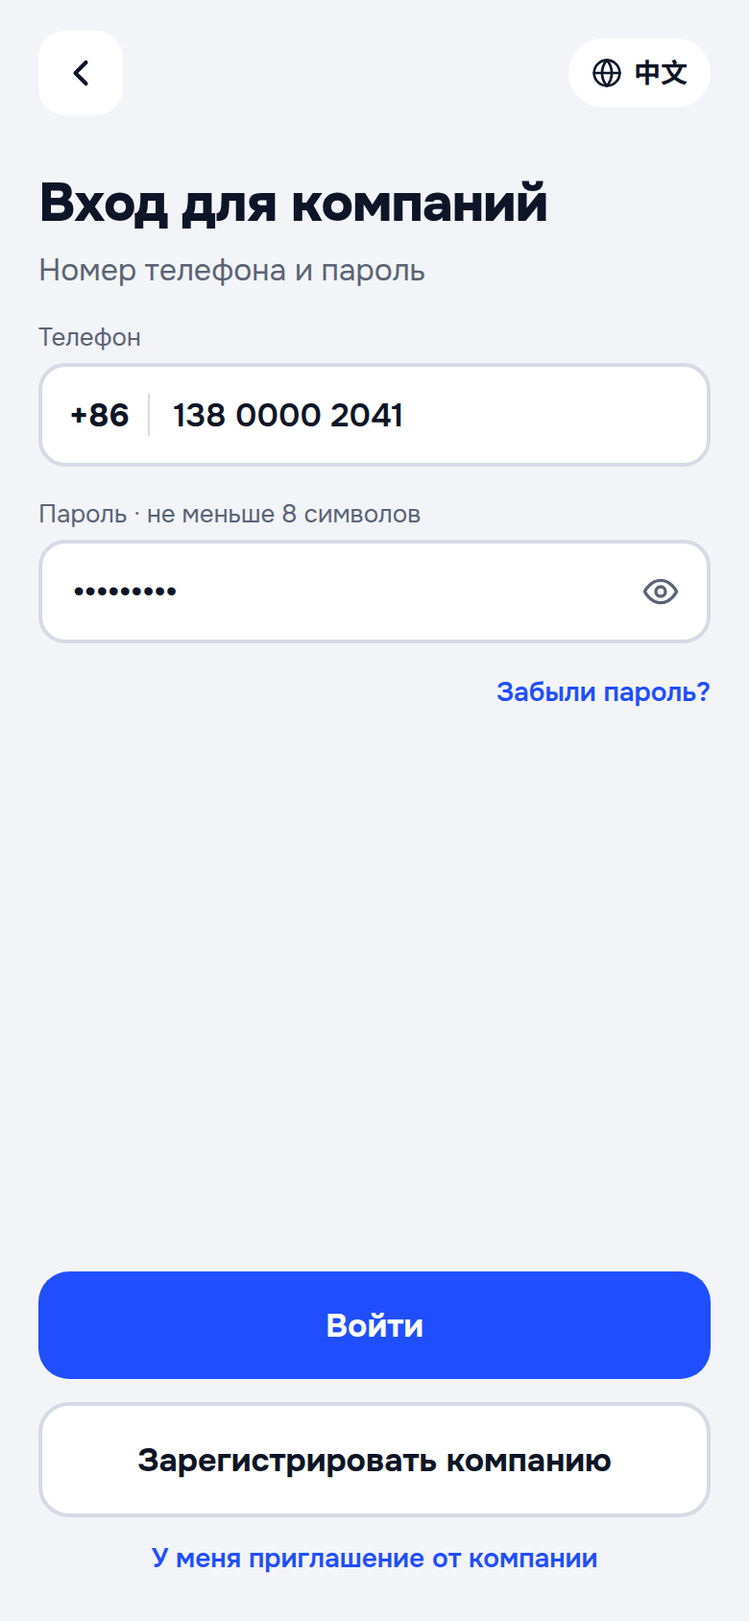
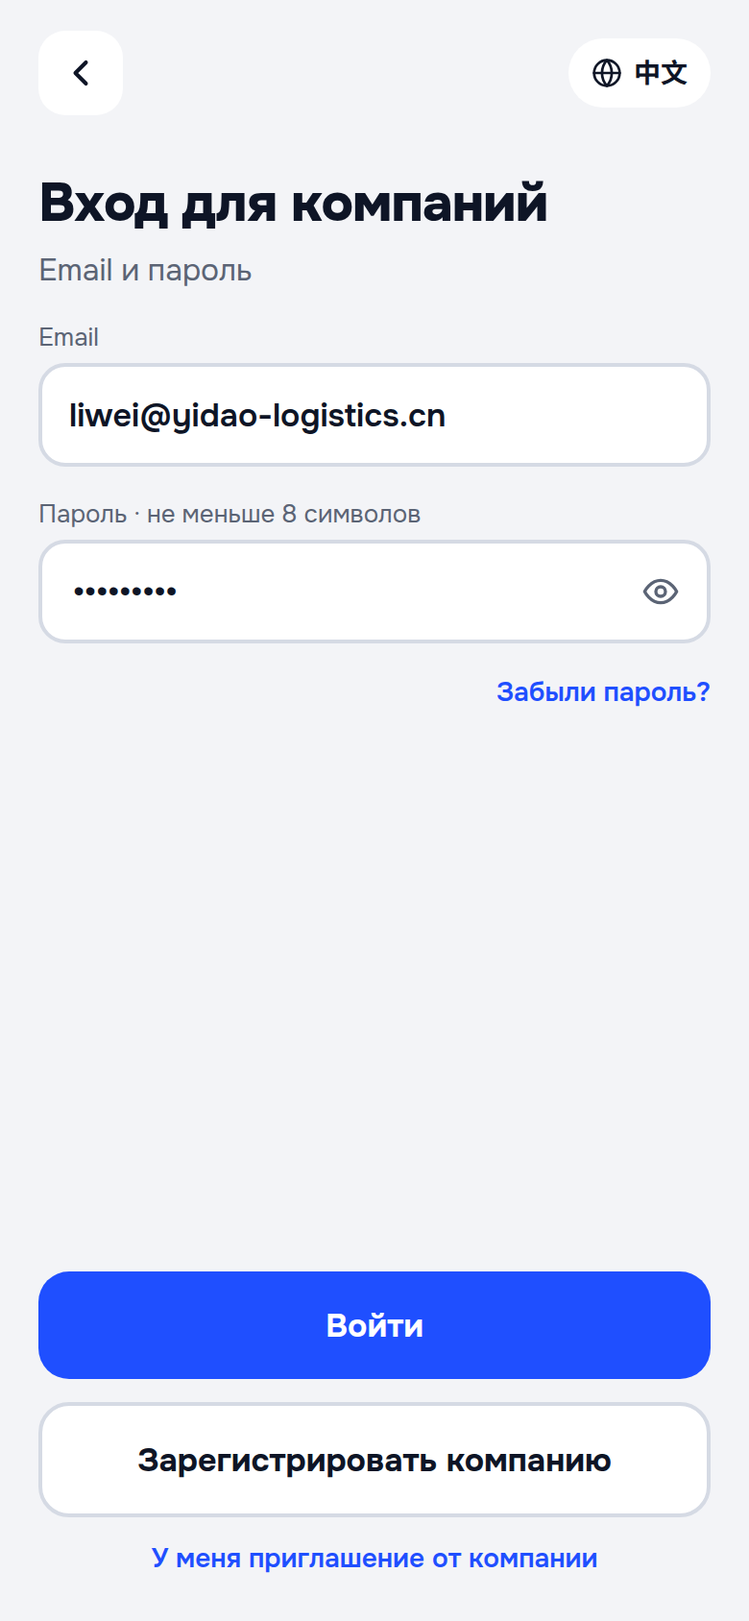
Logist auth: email + password (correction); update task 025, screens 12-13
Claude-Session: https://claude.ai/code/session_01Ff8oopsZvobH79mMVJKnFv

Changed region(s): [[0.0923, 0.2464, 0.5846, 0.2773], [0.2154, 0.154, 0.5538, 0.1848], [0.0615, 0.154, 0.1846, 0.2156]]

diff --git a/docs/tasks/025-logist-email-password.md b/docs/tasks/025-logist-email-password.md
@@ -1,0 +1,41 @@
+# 025 — Вход и регистрация логиста по email и паролю
+
+Статус: не начато · **решение владельца продукта 2026-10-04** (заменяет вход по коду на email из 006/022)
+
+Эталоны: `design/screens/13-auth-logist-login.png` (вход), `12-register-logist.png` (регистрация компании). Решение — `docs/decisions.md` (2026-10-04, «Логист: вход по email и паролю»).
+
+## Что сделать
+
+### Вход (экран 13)
+1. Email + пароль → «Войти». Кнопки: «Зарегистрировать компанию», «У меня приглашение от компании», «Забыли пароль?».
+2. `POST /auth/company/login {email, password}` → пара токенов (сессии из 006, срок 30 дней). Пароль — bcrypt. Email — нормализовать (trim, lower-case).
+3. Защита: 5 неверных паролей на email → блокировка входа на 15 минут; лимит 20 попыток в час с одного IP; одинаковый текст ошибки «Неверный email или пароль» (не раскрывать, существует ли email).
+
+### Регистрация компании (экран 12) — один экран
+4. Поля: email, пароль (≥ 8 символов, показать/скрыть), имя, название компании (+ русское, подставляется, можно поправить), страна (Китай / Казахстан / Другая). Город не спрашиваем.
+5. `POST /auth/company/register` → в одной транзакции `User{role: COMPANY, email, passwordHash, name}` + `Company` + `CompanyMember{OWNER}` (переиспользовать `registerOwnedCompany` из 022) → токены → кабинет с баннером «Публикация грузов откроется после проверки».
+6. Email уже зарегистрирован → «Этот email уже зарегистрирован. Войти?» (переход на вход с подставленным email).
+7. **Подтверждение email — не блокирует вход:** после регистрации отправляется письмо с кодом/ссылкой (`EmailService` из 006); в кабинете — плашка «Подтвердите email». Подтверждённый email — одно из условий проверки компании (вместе с документами, задача 012). Поле `User.emailVerifiedAt`.
+   Почему не блокировать: письма на qq.com/163.com доходят ненадёжно — логист не должен застрять на входе из-за письма.
+8. Телефон логиста для водителей — не при регистрации, а перед первой публикацией груза (решение 012).
+
+### Восстановление пароля
+9. «Забыли пароль?» → email → код на почту (`EmailService`, лимиты как в 006) → новый пароль → все остальные сессии завершаются.
+10. Письмо не пришло → экран «Не пришло письмо? Напишите в поддержку» (контакты из `app_settings`: WhatsApp / WeChat / email); в админке — кнопка «Сбросить пароль» (временный пароль, обязательная смена при входе).
+
+### Приглашение сотрудника (Путь Б из 022)
+11. Владелец → «Сотрудники» → «Пригласить» → email и роль → **ссылка-приглашение**: письмо на email + кнопки «Скопировать ссылку» / «Поделиться» (чтобы переслать в WeChat/WhatsApp, если письмо не дойдёт).
+12. По ссылке: email подставлен → пароль, имя, телефон для водителей, WeChat → готово, сразу в кабинете компании. Ссылка действует 7 дней, одноразовая. Переход по ссылке подтверждает email.
+
+### Что убрать / оставить
+13. Вход по одноразовому коду на email (`company_login_screen` / `company_otp_screen`, `/auth/email/request` + `/auth/email/verify` как способ входа) — убрать. `EmailService` остаётся для подтверждения email, восстановления пароля и приглашений.
+14. Демо-аккаунты компаний (`seed-demo.ts`, `DEMO_CREDENTIALS.md`) — email + пароль.
+15. Почтовый провайдер для prod (доставка в qq.com / 163.com — Alibaba DirectMail или аналог, SPF/DKIM/DMARC) — по задаче 022, п. 13–15.
+16. Все строки — ARB (kk/ru/zh/en).
+
+## Готово, когда
+- Логист входит по email и паролю; 6-й неверный пароль → блокировка 15 минут.
+- Новая компания регистрируется на одном экране и сразу попадает в кабинет; письмо подтверждения отправлено, но вход не блокирует.
+- «Забыли пароль» по коду на email работает; без письма — экран поддержки и сброс админом.
+- Сотрудник регистрируется по ссылке-приглашению и попадает в нужную компанию.
+- Тесты: вход, блокировка, регистрация, дубль email, подтверждение email, сброс пароля, приглашение.

diff --git a/docs/decisions.md b/docs/decisions.md
@@ -13,13 +13,12 @@
 **Не привязывать продукт к Хоргосу в текстах.**
 Скоро могут добавиться другие погранпереходы и точки. В интерфейсе, письмах и push не писать «Хоргос» текстом: название точки/города подставляется из справочника («Кто будет на {точка}», «Буду на {точка}»), общие тексты — без географии («Водители и грузы находят друг друга за минуты»). Хоргос остаётся только как данные в справочнике.
 
-**Логист: вход по телефону и паролю (решение владельца, заменяет вход по коду на email).** (задача 025, эталоны 12–13)
-- Вход: телефон (любой код страны, по умолчанию +86) + пароль. Регистрация компании — один экран: телефон, пароль, имя, название, страна.
-- Подтверждение номера: +7 — SMS-код; другие страны — без SMS (рассылка на +86 сложна и дорога), номер подтверждает админ при проверке компании.
-- Восстановление пароля: +7 — SMS; иначе — код на email, если указан в профиле; иначе — поддержка, сброс пароля админом.
-- Приглашение сотрудника — ссылкой, которую владелец сам пересылает в WeChat/WhatsApp (без email-рассылки).
-- Защита: блокировка на 15 минут после 5 неверных паролей, лимит по IP, одинаковая ошибка для неверного номера и пароля.
-Почему: логистам привычнее телефон и пароль, email у китайских логистов используют реже, а письма на qq.com/163.com доходят ненадёжно.
+**Логист: вход по email и паролю (решение владельца, заменяет вход по одноразовому коду на email).** (задача 025, эталоны 12–13)
+- Вход: email + пароль. Регистрация компании — один экран: email, пароль, имя, название, страна.
+- Подтверждение email отправляется, но вход не блокирует (письма в qq.com/163.com доходят ненадёжно); подтверждённый email — условие проверки компании.
+- Восстановление пароля — код на email; если письмо не пришло — поддержка, сброс админом.
+- Приглашение сотрудника — письмо + ссылка, которую владелец может сам переслать в WeChat/WhatsApp.
+- Защита: блокировка на 15 минут после 5 неверных паролей, лимит по IP, одинаковая ошибка для неверного email и пароля.
 Пункт «Логист — без пароля» в решении «Вход и регистрация — компактно» ниже — отменён.
 
 **Фильтр по умолчанию — Хоргос, но из настройки, а не из кода.**
@@ -33,7 +32,7 @@
 **Вход и регистрация — компактно, одна точка входа.** (задачи 021, 022; эталоны 09–12)
 - Нет отдельных «Вход» и «Регистрация»: человек выбирает роль, вводит телефон/email, получает код. Известный — сразу внутри, новый — продолжает регистрацию.
 - Водитель: телефон и код на одном экране (код подставляется сам, вход после 4-й цифры) → 3 шага: имя + город → машина → страны.
-- ~~**Логист — без пароля:** вход по 6-значному коду на email~~ — **отменено 2026-10-04**, см. «Логист: вход по телефону и паролю». Новый логист после кода — один экран «Новая компания»: имя, название (русское подставляется), страна кнопками. Пароль только у админа.
+- ~~**Логист — без пароля:** вход по 6-значному коду на email~~ — **отменено 2026-10-04**, см. «Логист: вход по email и паролю». Новый логист после кода — один экран «Новая компания»: имя, название (русское подставляется), страна кнопками. Пароль только у админа.
 - Язык — плашка в углу каждого экрана входа; ссылки на условия и политику — на первом экране.
 Почему: меньше экранов и полей — больше людей доходят до конца; без пароля нечего забывать и восстанавливать.
 

diff --git a/docs/tasks/README.md b/docs/tasks/README.md
@@ -31,7 +31,7 @@
 | 017 | Чат до сделки, закрытие груза с исходом, «Договорились?» | не начато |
 | 018 | Фоновые задачи и курс валют НБ РК | не начато · нужен до 014, 015, 017 |
 | 019 | Публикация груза (терминал, допуски, повтор) и жалобы / блокировка | не начато · после 012 и 016 |
-| **025** | **Логист: вход и регистрация по телефону и паролю** | 🔴 решение владельца — сразу |
+| **025** | **Логист: вход и регистрация по email и паролю** | 🔴 решение владельца — сразу |
 | **024** | **Доработки авторизации после ревью 006** | 🔴 не начато — **1–2 часа** |
 | **021** | **Ввод имени и города на любом языке** | ✅ готово |
 | **022** | **Регистрация логиста и компании** | ⚠ частично: Путь А (создать компанию) готов; Путь Б, админ-создание и прод-почта ждут 012 |
@@ -39,7 +39,7 @@
 | **020** | **Скорость и работа из Китая** | 🔴 не начато — часть А (Flutter Web без Google) сразу после 006 |
 
 **Порядок:**
-0. ~~021~~ ✅, ~~022 (Путь А)~~ ✅ → **сейчас: 025 — вход/регистрация логиста по телефону и паролю + приглашение по ссылке**, затем **024 — доработки авторизации** (1–2 часа), затем **015 — анонс прибытия заранее** (ядро продукта, поднято в очереди)
+0. ~~021~~ ✅, ~~022 (Путь А)~~ ✅ → **сейчас: 025 — вход/регистрация логиста по email и паролю + приглашение**, затем **024 — доработки авторизации** (1–2 часа), затем **015 — анонс прибытия заранее** (ядро продукта, поднято в очереди)
 1. ~~006 — авторизация~~ ✅ готово (ревью 2026-10-04: доработки → 024)
 2. 020-А — веб-кабинет без Google (блокер для Китая), 013 — английский
 3. 018 — фоновые задачи (015 поднята выше)

diff --git a/CLAUDE.md b/CLAUDE.md
@@ -30,7 +30,7 @@
 - Персональные данные хранятся на серверах в РК.
 - Логисты в Китае: на их стороне не зависеть от Google (FCM, Maps, Sign-In, google_fonts).
   Push: FCM (KZ) + APNs + JPush (Android CN). Компаниям — также WeCom group bot webhook.
-- Вход: водитель — телефон + SMS-код (+7), известный — входит, новый — сразу регистрируется (эталоны 09–11); **логист — телефон (любой код страны, по умолчанию +86) + пароль**, отдельная кнопка «Зарегистрировать компанию» (эталоны 12–13, задача 025); админ — email + пароль.
+- Вход: водитель — телефон + SMS-код (+7), известный — входит, новый — сразу регистрируется (эталоны 09–11); **логист — email + пароль**, отдельная кнопка «Зарегистрировать компанию» (эталоны 12–13, задача 025); админ — email + пароль.
 - Модуль уведомлений — абстракция каналов: push, wecom, email, sms (позже wechat, whatsapp).
 - Шрифт Onest вшит в assets. Flutter Web: CanvasKit и шрифты (включая Noto Sans SC) — только со своего сервера, никаких запросов к gstatic/googleapis (задача 020).
 

diff --git a/docs/tasks/022-logist-registration.md b/docs/tasks/022-logist-registration.md
@@ -1,6 +1,6 @@
 # 022 — Регистрация логиста и компании
 
-> **2026-10-04: вход по коду на email заменён на телефон + пароль — см. задачу 025.** Сделанная здесь регистрация компании (`registerOwnedCompany`) переиспользуется; Путь Б (приглашение) и восстановление пароля — в 025.
+> **2026-10-04: вход по коду на email заменён на email + пароль — см. задачу 025.** Сделанная здесь регистрация компании (`registerOwnedCompany`) переиспользуется; Путь Б (приглашение) и восстановление пароля — в 025.
 
 Статус: частично готово (2026-10-04) — Путь А (самостоятельная регистрация
 владельца) сделан и проверен целиком; Путь Б (приглашение сотрудника),

diff --git a/design/DESIGN.md b/design/DESIGN.md
@@ -85,7 +85,7 @@ Onest поддерживает казахские буквы (ә ғ қ ң ө ұ 
 | 09-auth-start.png | Вход · выбор роли (единая точка входа и регистрации) |
 | 10-auth-driver.png | Вход водителя · телефон и код на одном экране |
 | 11-register-driver-about.png | Регистрация водителя · шаг 1 из 3: имя и город |
-| 12-register-logist.png | Регистрация компании · телефон, пароль, имя, компания, страна (один экран) |
-| 13-auth-logist-login.png | Вход компании · телефон и пароль |
+| 12-register-logist.png | Регистрация компании · email, пароль, имя, компания, страна (один экран) |
+| 13-auth-logist-login.png | Вход компании · email и пароль |
 
 Данные на макетах (имена, компании, цены) — примеры.
